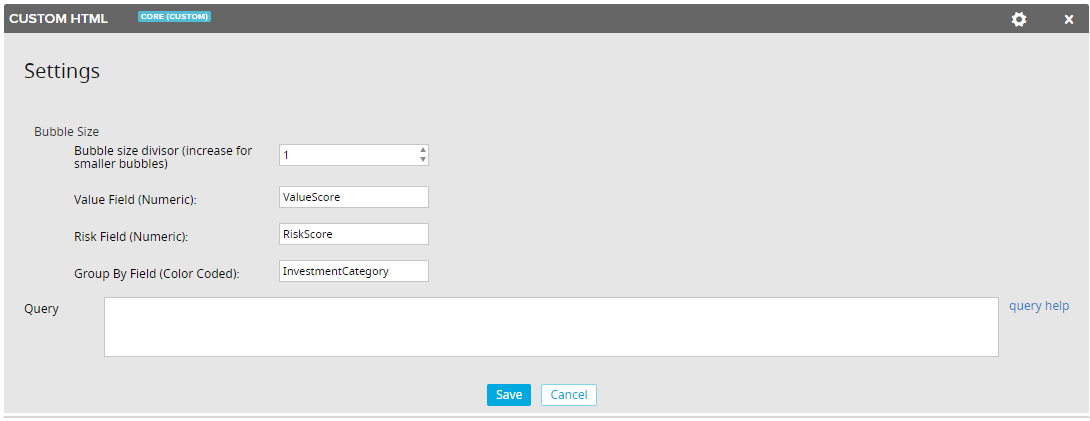
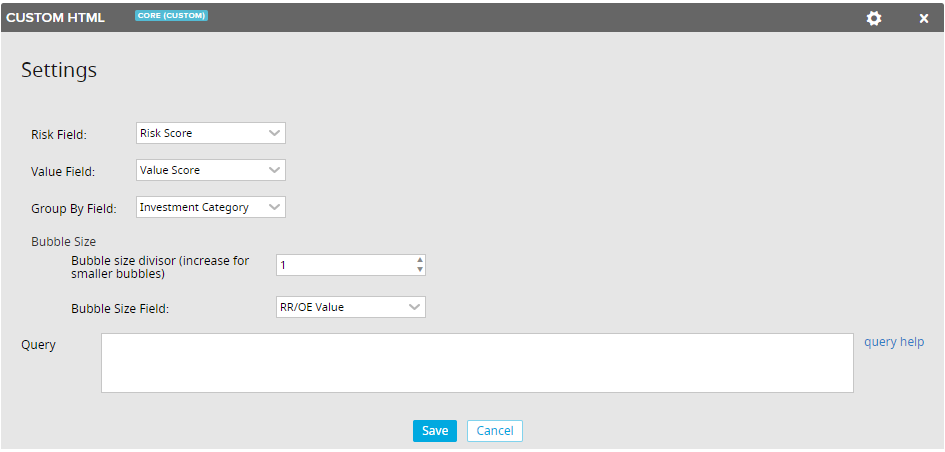
Update Field Settings

diff --git a/deploy/App-external.html b/deploy/App-external.html
@@ -7,7 +7,7 @@
 
     <script type="text/javascript">
         Rally.onReady(function () {
-                Ext.define("PIValueVsRisk",{extend:"Rally.app.App",componentCls:"app",launch:function(){app=this,typeComboBox=this.add({xtype:"rallyportfolioitemtypecombobox",listeners:{select:function(combobox){var piType=typeComboBox.getRecord().get("TypePath");this._getPIChartData(piType)},scope:this}})},_getPIChartData:function(piType){this._myStore&&this._myStore.destroy(),this.myStore=Ext.create("Rally.data.wsapi.Store",{model:piType,autoLoad:!0,fetch:["FormattedID","Name","PreliminaryEstimate","PreliminaryEstimateValue",app.getSetting("groupByField"),riskField=app.getSetting("riskField"),riskField=app.getSetting("valueField")],sorters:[{property:"InvestmentCategory",direction:"ASC"}],filters:app.getQueryFilter(),listeners:{load:this._onDataLoaded,scope:this}})},_onDataLoaded:function(store,data){var bubbleDiv=app.getSetting("PIBubbleDiv"),groupField=app.getSetting("groupByField"),riskField=app.getSetting("riskField"),valueField=app.getSetting("valueField"),series=[],ccount=0,currentSeries={name:null},records=_.map(data,function(record){record.get(groupField)!==currentSeries.name&&(currentSeries={name:record.get(groupField),data:[],color:app._getColor(ccount++)},series.push(currentSeries));var bubbleSize=5,sizeText="Unknown";record.get("PreliminaryEstimate")&&(bubbleSize=100*record.get("PreliminaryEstimateValue")/bubbleDiv,sizeText=record.get("PreliminaryEstimate").Name),currentSeries.data.push({name:record.get("FormattedID")+": "+record.get("Name"),x:record.get(valueField),y:record.get(riskField),z:bubbleSize,size:sizeText})});this._drawChart({series:series})},_drawChart:function(data){this._myBoard&&this._myBoard.destroy(),this._myBoard=this.add({xtype:"rallychart",loadMask:!1,chartData:data,chartConfig:this._getChartConfig()})},_getColor:function(index){var COLORS=["rgba(204,  0,  0, .6)","rgba(204,204,  0, .6)","rgba(  0,204,  0, .6)","rgba(  0,102,204, .6)","rgba(102,  0,204, .6)","rgba( 96, 96, 96, .6)","rgba(204,102,  0, .6)","rgba(  0,  0,204, .6)"];return COLORS[index]},_getChartConfig:function(){return{chart:{type:"bubble",plotBorderWidth:1,zoomType:"xy"},title:{text:"Value vs. Risk"},xAxis:{min:0,title:{text:app.getSetting("valueField")}},yAxis:{min:0,title:{text:app.getSetting("riskField")}},tooltip:{formatter:function(){return"<b>"+this.point.name+"</b><br/>Value: "+this.x+", Risk: "+this.y+", Size: "+this.point.size}},plotOptions:{scatter:{marker:{radius:10,symbol:"circle",states:{hover:{enabled:!1}}},states:{hover:{marker:{enabled:!0}}}}}}},getSettingsFields:function(){var values=[{xtype:"label",forId:"myFieldId1",text:"Bubble Size",margin:"0 0 0 10"},{name:"PIBubbleDiv",xtype:"rallynumberfield",margin:"0 0 15 50",label:"Bubble size divisor (increase for smaller bubbles)",labelWidth:200},{name:"valueField",xtype:"rallytextfield",margin:"0 0 15 50",label:"Value Field (Numeric):",labelWidth:200},{name:"riskField",xtype:"rallytextfield",margin:"0 0 15 50",label:"Risk Field (Numeric):",labelWidth:200},{name:"groupByField",xtype:"rallytextfield",margin:"0 0 15 50",label:"Group By Field (Color Coded):",labelWidth:200},{type:"query"}];return values},config:{defaultSettings:{PIBubbleDiv:1,groupByField:"InvestmentCategory",valueField:"ValueScore",riskField:"RiskScore"}},getQueryFilter:function(){var queries=[];return app.getSetting("query")&&queries.push(Rally.data.QueryFilter.fromQueryString(app.getSetting("query"))),queries}});
+                Ext.define("PIValueVsRisk",{extend:"Rally.app.App",componentCls:"app",launch:function(){app=this,typeComboBox=this.add({xtype:"rallyportfolioitemtypecombobox",listeners:{select:function(combobox){var piType=typeComboBox.getRecord().get("TypePath");this._getPIChartData(piType)},scope:this}})},_getPIChartData:function(piType){this._myStore&&this._myStore.destroy(),this.myStore=Ext.create("Rally.data.wsapi.Store",{model:piType,autoLoad:!0,fetch:["FormattedID","Name","PreliminaryEstimate","PreliminaryEstimateValue",app.getSetting("groupByField"),riskField=app.getSetting("riskField"),riskField=app.getSetting("valueField"),app.getSetting("bubbleSizeField")],sorters:[{property:"InvestmentCategory",direction:"ASC"}],filters:app.getQueryFilter(),listeners:{load:this._onDataLoaded,scope:this}})},_onDataLoaded:function(store,data){var bubbleDiv=app.getSetting("PIBubbleDiv"),groupField=app.getSetting("groupByField"),riskField=app.getSetting("riskField"),valueField=app.getSetting("valueField"),series=[],ccount=0,currentSeries={name:null},records=_.map(data,function(record){var rec=void 0===record.get(groupField)._type?record.get(groupField):record.get(groupField)._refObjectName;rec!==currentSeries.name&&(currentSeries={name:rec,data:[],color:app._getColor(ccount++)},series.push(currentSeries));var bubbleSize=5,sizeText="Unknown";"PreliminaryEstimate"===app.getSetting("bubbleSizeField")?(bsizeName="PreliminaryEstimate",bsizeValue=record.get("PreliminaryEstimateValue"),record.get(bsizeName)&&(bubbleSize=100*bsizeValue/bubbleDiv,sizeText=record.get(bsizeName).Name)):(bsizeName=app.getSetting("bubbleSizeField"),bsizeValue=record.get(bsizeName),record.get(bsizeName)&&(bubbleSize=100*bsizeValue/bubbleDiv,sizeText=record.get(bsizeName))),currentSeries.data.push({name:record.get("FormattedID")+": "+record.get("Name"),x:record.get(valueField),y:record.get(riskField),z:bubbleSize,size:sizeText})});this._drawChart({series:series})},_drawChart:function(data){this._myBoard&&this._myBoard.destroy(),this._myBoard=this.add({xtype:"rallychart",loadMask:!1,chartData:data,chartConfig:this._getChartConfig()})},_getColor:function(index){var COLORS=["rgba(204,  0,  0, .6)","rgba(204,204,  0, .6)","rgba(  0,204,  0, .6)","rgba(  0,102,204, .6)","rgba(102,  0,204, .6)","rgba( 96, 96, 96, .6)","rgba(204,102,  0, .6)","rgba(  0,  0,204, .6)"];return COLORS[index]},_getChartConfig:function(){return{chart:{type:"bubble",plotBorderWidth:1,zoomType:"xy"},title:{text:"Value vs. Risk"},xAxis:{min:0,title:{text:app.getSetting("valueField")}},yAxis:{min:0,title:{text:app.getSetting("riskField")}},tooltip:{formatter:function(){return"<b>"+this.point.name+"</b><br/>Value: "+this.x+", Risk: "+this.y+", Size: "+this.point.size}},plotOptions:{scatter:{marker:{radius:10,symbol:"circle",states:{hover:{enabled:!1}}},states:{hover:{marker:{enabled:!0}}}}}}},getSettingsFields:function(){var values=[{xtype:"rallyfieldcombobox",name:"riskField",fieldLabel:"Risk Field:",model:"PortfolioItem",boxLabelAlign:"after",margin:"0 0 15 10",labelStyle:"width:100px;"},{xtype:"rallyfieldcombobox",name:"valueField",fieldLabel:"Value Field:",model:"PortfolioItem",boxLabelAlign:"after",margin:"0 0 15 10",labelStyle:"width:100px;"},{xtype:"rallyfieldcombobox",name:"groupByField",fieldLabel:"Group By Field:",model:"PortfolioItem",boxLabelAlign:"after",margin:"0 0 15 10",labelStyle:"width:100px;"},{xtype:"label",forId:"myFieldId1",text:"Bubble Size",margin:"0 0 0 10"},{name:"PIBubbleDiv",xtype:"rallynumberfield",margin:"0 0 15 50",label:"Bubble size divisor (increase for smaller bubbles)",labelWidth:200},{xtype:"rallyfieldcombobox",name:"bubbleSizeField",fieldLabel:"Bubble Size Field:",model:"PortfolioItem",boxLabelAlign:"after",margin:"0 0 15 50",labelStyle:"width:200px;"},{type:"query"}];return values},config:{defaultSettings:{PIBubbleDiv:1,groupByField:"InvestmentCategory",valueField:"ValueScore",riskField:"RiskScore",bubbleSizeField:"PreliminaryEstimate"}},getQueryFilter:function(){var queries=[];return app.getSetting("query")&&queries.push(Rally.data.QueryFilter.fromQueryString(app.getSetting("query"))),queries}});
 
             Rally.launchApp('PIValueVsRisk', {
                 name:"PIValueVsRisk",

diff --git a/deploy/App.html b/deploy/App.html
@@ -7,7 +7,7 @@
 
     <script type="text/javascript">
         Rally.onReady(function () {
-                Ext.define("PIValueVsRisk",{extend:"Rally.app.App",componentCls:"app",launch:function(){app=this,typeComboBox=this.add({xtype:"rallyportfolioitemtypecombobox",listeners:{select:function(combobox){var piType=typeComboBox.getRecord().get("TypePath");this._getPIChartData(piType)},scope:this}})},_getPIChartData:function(piType){this._myStore&&this._myStore.destroy(),this.myStore=Ext.create("Rally.data.wsapi.Store",{model:piType,autoLoad:!0,fetch:["FormattedID","Name","PreliminaryEstimate","PreliminaryEstimateValue",app.getSetting("groupByField"),riskField=app.getSetting("riskField"),riskField=app.getSetting("valueField")],sorters:[{property:"InvestmentCategory",direction:"ASC"}],filters:app.getQueryFilter(),listeners:{load:this._onDataLoaded,scope:this}})},_onDataLoaded:function(store,data){var bubbleDiv=app.getSetting("PIBubbleDiv"),groupField=app.getSetting("groupByField"),riskField=app.getSetting("riskField"),valueField=app.getSetting("valueField"),series=[],ccount=0,currentSeries={name:null},records=_.map(data,function(record){record.get(groupField)!==currentSeries.name&&(currentSeries={name:record.get(groupField),data:[],color:app._getColor(ccount++)},series.push(currentSeries));var bubbleSize=5,sizeText="Unknown";record.get("PreliminaryEstimate")&&(bubbleSize=100*record.get("PreliminaryEstimateValue")/bubbleDiv,sizeText=record.get("PreliminaryEstimate").Name),currentSeries.data.push({name:record.get("FormattedID")+": "+record.get("Name"),x:record.get(valueField),y:record.get(riskField),z:bubbleSize,size:sizeText})});this._drawChart({series:series})},_drawChart:function(data){this._myBoard&&this._myBoard.destroy(),this._myBoard=this.add({xtype:"rallychart",loadMask:!1,chartData:data,chartConfig:this._getChartConfig()})},_getColor:function(index){var COLORS=["rgba(204,  0,  0, .6)","rgba(204,204,  0, .6)","rgba(  0,204,  0, .6)","rgba(  0,102,204, .6)","rgba(102,  0,204, .6)","rgba( 96, 96, 96, .6)","rgba(204,102,  0, .6)","rgba(  0,  0,204, .6)"];return COLORS[index]},_getChartConfig:function(){return{chart:{type:"bubble",plotBorderWidth:1,zoomType:"xy"},title:{text:"Value vs. Risk"},xAxis:{min:0,title:{text:app.getSetting("valueField")}},yAxis:{min:0,title:{text:app.getSetting("riskField")}},tooltip:{formatter:function(){return"<b>"+this.point.name+"</b><br/>Value: "+this.x+", Risk: "+this.y+", Size: "+this.point.size}},plotOptions:{scatter:{marker:{radius:10,symbol:"circle",states:{hover:{enabled:!1}}},states:{hover:{marker:{enabled:!0}}}}}}},getSettingsFields:function(){var values=[{xtype:"label",forId:"myFieldId1",text:"Bubble Size",margin:"0 0 0 10"},{name:"PIBubbleDiv",xtype:"rallynumberfield",margin:"0 0 15 50",label:"Bubble size divisor (increase for smaller bubbles)",labelWidth:200},{name:"valueField",xtype:"rallytextfield",margin:"0 0 15 50",label:"Value Field (Numeric):",labelWidth:200},{name:"riskField",xtype:"rallytextfield",margin:"0 0 15 50",label:"Risk Field (Numeric):",labelWidth:200},{name:"groupByField",xtype:"rallytextfield",margin:"0 0 15 50",label:"Group By Field (Color Coded):",labelWidth:200},{type:"query"}];return values},config:{defaultSettings:{PIBubbleDiv:1,groupByField:"InvestmentCategory",valueField:"ValueScore",riskField:"RiskScore"}},getQueryFilter:function(){var queries=[];return app.getSetting("query")&&queries.push(Rally.data.QueryFilter.fromQueryString(app.getSetting("query"))),queries}});
+                Ext.define("PIValueVsRisk",{extend:"Rally.app.App",componentCls:"app",launch:function(){app=this,typeComboBox=this.add({xtype:"rallyportfolioitemtypecombobox",listeners:{select:function(combobox){var piType=typeComboBox.getRecord().get("TypePath");this._getPIChartData(piType)},scope:this}})},_getPIChartData:function(piType){this._myStore&&this._myStore.destroy(),this.myStore=Ext.create("Rally.data.wsapi.Store",{model:piType,autoLoad:!0,fetch:["FormattedID","Name","PreliminaryEstimate","PreliminaryEstimateValue",app.getSetting("groupByField"),riskField=app.getSetting("riskField"),riskField=app.getSetting("valueField"),app.getSetting("bubbleSizeField")],sorters:[{property:"InvestmentCategory",direction:"ASC"}],filters:app.getQueryFilter(),listeners:{load:this._onDataLoaded,scope:this}})},_onDataLoaded:function(store,data){var bubbleDiv=app.getSetting("PIBubbleDiv"),groupField=app.getSetting("groupByField"),riskField=app.getSetting("riskField"),valueField=app.getSetting("valueField"),series=[],ccount=0,currentSeries={name:null},records=_.map(data,function(record){var rec=void 0===record.get(groupField)._type?record.get(groupField):record.get(groupField)._refObjectName;rec!==currentSeries.name&&(currentSeries={name:rec,data:[],color:app._getColor(ccount++)},series.push(currentSeries));var bubbleSize=5,sizeText="Unknown";"PreliminaryEstimate"===app.getSetting("bubbleSizeField")?(bsizeName="PreliminaryEstimate",bsizeValue=record.get("PreliminaryEstimateValue"),record.get(bsizeName)&&(bubbleSize=100*bsizeValue/bubbleDiv,sizeText=record.get(bsizeName).Name)):(bsizeName=app.getSetting("bubbleSizeField"),bsizeValue=record.get(bsizeName),record.get(bsizeName)&&(bubbleSize=100*bsizeValue/bubbleDiv,sizeText=record.get(bsizeName))),currentSeries.data.push({name:record.get("FormattedID")+": "+record.get("Name"),x:record.get(valueField),y:record.get(riskField),z:bubbleSize,size:sizeText})});this._drawChart({series:series})},_drawChart:function(data){this._myBoard&&this._myBoard.destroy(),this._myBoard=this.add({xtype:"rallychart",loadMask:!1,chartData:data,chartConfig:this._getChartConfig()})},_getColor:function(index){var COLORS=["rgba(204,  0,  0, .6)","rgba(204,204,  0, .6)","rgba(  0,204,  0, .6)","rgba(  0,102,204, .6)","rgba(102,  0,204, .6)","rgba( 96, 96, 96, .6)","rgba(204,102,  0, .6)","rgba(  0,  0,204, .6)"];return COLORS[index]},_getChartConfig:function(){return{chart:{type:"bubble",plotBorderWidth:1,zoomType:"xy"},title:{text:"Value vs. Risk"},xAxis:{min:0,title:{text:app.getSetting("valueField")}},yAxis:{min:0,title:{text:app.getSetting("riskField")}},tooltip:{formatter:function(){return"<b>"+this.point.name+"</b><br/>Value: "+this.x+", Risk: "+this.y+", Size: "+this.point.size}},plotOptions:{scatter:{marker:{radius:10,symbol:"circle",states:{hover:{enabled:!1}}},states:{hover:{marker:{enabled:!0}}}}}}},getSettingsFields:function(){var values=[{xtype:"rallyfieldcombobox",name:"riskField",fieldLabel:"Risk Field:",model:"PortfolioItem",boxLabelAlign:"after",margin:"0 0 15 10",labelStyle:"width:100px;"},{xtype:"rallyfieldcombobox",name:"valueField",fieldLabel:"Value Field:",model:"PortfolioItem",boxLabelAlign:"after",margin:"0 0 15 10",labelStyle:"width:100px;"},{xtype:"rallyfieldcombobox",name:"groupByField",fieldLabel:"Group By Field:",model:"PortfolioItem",boxLabelAlign:"after",margin:"0 0 15 10",labelStyle:"width:100px;"},{xtype:"label",forId:"myFieldId1",text:"Bubble Size",margin:"0 0 0 10"},{name:"PIBubbleDiv",xtype:"rallynumberfield",margin:"0 0 15 50",label:"Bubble size divisor (increase for smaller bubbles)",labelWidth:200},{xtype:"rallyfieldcombobox",name:"bubbleSizeField",fieldLabel:"Bubble Size Field:",model:"PortfolioItem",boxLabelAlign:"after",margin:"0 0 15 50",labelStyle:"width:200px;"},{type:"query"}];return values},config:{defaultSettings:{PIBubbleDiv:1,groupByField:"InvestmentCategory",valueField:"ValueScore",riskField:"RiskScore",bubbleSizeField:"PreliminaryEstimate"}},getQueryFilter:function(){var queries=[];return app.getSetting("query")&&queries.push(Rally.data.QueryFilter.fromQueryString(app.getSetting("query"))),queries}});
 
             Rally.launchApp('PIValueVsRisk', {
                 name:"PIValueVsRisk",

diff --git a/App.js b/App.js
@@ -20,7 +20,7 @@ Ext.define('PIValueVsRisk', {
 		this.myStore = Ext.create('Rally.data.wsapi.Store', {
 			model: piType,
 			autoLoad: true,
-			fetch: ['FormattedID', 'Name', 'PreliminaryEstimate', 'PreliminaryEstimateValue', app.getSetting('groupByField'), riskField = app.getSetting('riskField'), riskField = app.getSetting('valueField') ],
+			fetch: ['FormattedID', 'Name', 'PreliminaryEstimate', 'PreliminaryEstimateValue', app.getSetting('groupByField'), riskField = app.getSetting('riskField'), riskField = app.getSetting('valueField'), app.getSetting('bubbleSizeField') ],
 			sorters: [{
 				property: 'InvestmentCategory',
 				direction: 'ASC'
@@ -44,10 +44,10 @@ Ext.define('PIValueVsRisk', {
 		};
 		var records = _.map(data, function (record) {
 			// console.log(record);
-
-			if (record.get(groupField) !== currentSeries.name) {
+			var rec = (record.get(groupField)._type === undefined )  ? record.get(groupField) : record.get(groupField)._refObjectName ;
+			if (rec !== currentSeries.name) {
 				currentSeries = {
-					name: record.get(groupField),
+					name: rec,
 					data: [],
 					color: app._getColor(ccount++)
 				};
@@ -55,9 +55,22 @@ Ext.define('PIValueVsRisk', {
 			}
 			var bubbleSize = 5;
 			var sizeText = "Unknown";
-			if (record.get('PreliminaryEstimate')) {
-				bubbleSize = (100 * record.get('PreliminaryEstimateValue')) / bubbleDiv;
-				sizeText = record.get('PreliminaryEstimate').Name;
+			if (app.getSetting('bubbleSizeField') === 'PreliminaryEstimate') {
+				bsizeName = 'PreliminaryEstimate';
+				bsizeValue = record.get('PreliminaryEstimateValue');
+				if (record.get(bsizeName)) {
+					bubbleSize = (100 * bsizeValue) / bubbleDiv;
+					sizeText = record.get(bsizeName).Name;
+				}
+			} else {
+// console.log(record);
+				bsizeName = app.getSetting('bubbleSizeField');
+				bsizeValue = record.get(bsizeName);
+				if (record.get(bsizeName)) {
+// console.log(bsizeName, bsizeValue);
+					bubbleSize = (100 * bsizeValue) / bubbleDiv;
+					sizeText = record.get(bsizeName);
+				}
 			}
 //			console.log(record);
 			currentSeries.data.push({
@@ -68,12 +81,12 @@ Ext.define('PIValueVsRisk', {
 				size: sizeText,
 			});
 		});
-		// console.log(series);
+// console.log(series);
 		this._drawChart({series: series});
 	},
 	_drawChart: function (data) {
         if ( this._myBoard ) { this._myBoard.destroy(); }
-		//                    console.log(data);
+//  console.log(data);
 		this._myBoard = this.add({
 			xtype: 'rallychart',
 			loadMask: false,
@@ -149,39 +162,54 @@ Ext.define('PIValueVsRisk', {
     },
     getSettingsFields: function() {
         var values = [
+			{   // Card Field Picker
+				xtype: 'rallyfieldcombobox',
+				name: 'riskField',
+				fieldLabel: 'Risk Field:',
+				model: 'PortfolioItem',
+				boxLabelAlign: 'after',
+				margin: '0 0 15 10',
+				labelStyle: "width:100px;"
+			},
+			{   // Card Field Picker
+				xtype: 'rallyfieldcombobox',
+				name: 'valueField',
+				fieldLabel: 'Value Field:',
+				model: 'PortfolioItem',
+				boxLabelAlign: 'after',
+				margin: '0 0 15 10',
+				labelStyle: "width:100px;"
+			},
+			{   // Card Field Picker
+				xtype: 'rallyfieldcombobox',
+				name: 'groupByField',
+				fieldLabel: 'Group By Field:',
+				model: 'PortfolioItem',
+				boxLabelAlign: 'after',
+				margin: '0 0 15 10',
+				labelStyle: "width:100px;"
+			},
 			{
 				xtype: 'label',
 				forId: 'myFieldId1',
 				text: 'Bubble Size',
 				margin: '0 0 0 10'
 			},
-           {
+        	{
                 name: 'PIBubbleDiv',
                 xtype: 'rallynumberfield',
                 margin: '0 0 15 50',
                 label : "Bubble size divisor (increase for smaller bubbles)",
                 labelWidth: 200
 			},
-			{
-                name: 'valueField',
-                xtype: 'rallytextfield',
-                margin: '0 0 15 50',
-                label : "Value Field (Numeric):",
-                labelWidth: 200
-			},
-			{
-                name: 'riskField',
-                xtype: 'rallytextfield',
-                margin: '0 0 15 50',
-                label : "Risk Field (Numeric):",
-                labelWidth: 200
-			},
-			{
-                name: 'groupByField',
-                xtype: 'rallytextfield',
-                margin: '0 0 15 50',
-                label : "Group By Field (Color Coded):",
-                labelWidth: 200
+			{   // Card Field Picker
+				xtype: 'rallyfieldcombobox',
+				name: 'bubbleSizeField',
+				fieldLabel: 'Bubble Size Field:',
+				model: 'PortfolioItem',
+				boxLabelAlign: 'after',
+				margin: '0 0 15 50',
+				labelStyle: "width:200px;"
 			},
 			{ type: 'query' }
         ];
@@ -192,7 +220,8 @@ Ext.define('PIValueVsRisk', {
 			PIBubbleDiv : 1,
 			groupByField: 'InvestmentCategory',
 			valueField: 'ValueScore',
-			riskField: 'RiskScore'
+			riskField: 'RiskScore',
+			bubbleSizeField: 'PreliminaryEstimate'
 
         }
 	},

diff --git a/deploy/App-uncompressed.html b/deploy/App-uncompressed.html
@@ -29,7 +29,7 @@
 		this.myStore = Ext.create('Rally.data.wsapi.Store', {
 			model: piType,
 			autoLoad: true,
-			fetch: ['FormattedID', 'Name', 'PreliminaryEstimate', 'PreliminaryEstimateValue', app.getSetting('groupByField'), riskField = app.getSetting('riskField'), riskField = app.getSetting('valueField') ],
+			fetch: ['FormattedID', 'Name', 'PreliminaryEstimate', 'PreliminaryEstimateValue', app.getSetting('groupByField'), riskField = app.getSetting('riskField'), riskField = app.getSetting('valueField'), app.getSetting('bubbleSizeField') ],
 			sorters: [{
 				property: 'InvestmentCategory',
 				direction: 'ASC'
@@ -53,10 +53,10 @@
 		};
 		var records = _.map(data, function (record) {
 			// console.log(record);
-
-			if (record.get(groupField) !== currentSeries.name) {
+			var rec = (record.get(groupField)._type === undefined )  ? record.get(groupField) : record.get(groupField)._refObjectName ;
+			if (rec !== currentSeries.name) {
 				currentSeries = {
-					name: record.get(groupField),
+					name: rec,
 					data: [],
 					color: app._getColor(ccount++)
 				};
@@ -64,9 +64,22 @@
 			}
 			var bubbleSize = 5;
 			var sizeText = "Unknown";
-			if (record.get('PreliminaryEstimate')) {
-				bubbleSize = (100 * record.get('PreliminaryEstimateValue')) / bubbleDiv;
-				sizeText = record.get('PreliminaryEstimate').Name;
+			if (app.getSetting('bubbleSizeField') === 'PreliminaryEstimate') {
+				bsizeName = 'PreliminaryEstimate';
+				bsizeValue = record.get('PreliminaryEstimateValue');
+				if (record.get(bsizeName)) {
+					bubbleSize = (100 * bsizeValue) / bubbleDiv;
+					sizeText = record.get(bsizeName).Name;
+				}
+			} else {
+// console.log(record);
+				bsizeName = app.getSetting('bubbleSizeField');
+				bsizeValue = record.get(bsizeName);
+				if (record.get(bsizeName)) {
+// console.log(bsizeName, bsizeValue);
+					bubbleSize = (100 * bsizeValue) / bubbleDiv;
+					sizeText = record.get(bsizeName);
+				}
 			}
 //			console.log(record);
 			currentSeries.data.push({
@@ -77,12 +90,12 @@
 				size: sizeText,
 			});
 		});
-		// console.log(series);
+// console.log(series);
 		this._drawChart({series: series});
 	},
 	_drawChart: function (data) {
         if ( this._myBoard ) { this._myBoard.destroy(); }
-		//                    console.log(data);
+//  console.log(data);
 		this._myBoard = this.add({
 			xtype: 'rallychart',
 			loadMask: false,
@@ -158,39 +171,54 @@
     },
     getSettingsFields: function() {
         var values = [
+			{   // Card Field Picker
+				xtype: 'rallyfieldcombobox',
+				name: 'riskField',
+				fieldLabel: 'Risk Field:',
+				model: 'PortfolioItem',
+				boxLabelAlign: 'after',
+				margin: '0 0 15 10',
+				labelStyle: "width:100px;"
+			},
+			{   // Card Field Picker
+				xtype: 'rallyfieldcombobox',
+				name: 'valueField',
+				fieldLabel: 'Value Field:',
+				model: 'PortfolioItem',
+				boxLabelAlign: 'after',
+				margin: '0 0 15 10',
+				labelStyle: "width:100px;"
+			},
+			{   // Card Field Picker
+				xtype: 'rallyfieldcombobox',
+				name: 'groupByField',
+				fieldLabel: 'Group By Field:',
+				model: 'PortfolioItem',
+				boxLabelAlign: 'after',
+				margin: '0 0 15 10',
+				labelStyle: "width:100px;"
+			},
 			{
 				xtype: 'label',
 				forId: 'myFieldId1',
 				text: 'Bubble Size',
 				margin: '0 0 0 10'
 			},
-           {
+        	{
                 name: 'PIBubbleDiv',
                 xtype: 'rallynumberfield',
                 margin: '0 0 15 50',
                 label : "Bubble size divisor (increase for smaller bubbles)",
                 labelWidth: 200
 			},
-			{
-                name: 'valueField',
-                xtype: 'rallytextfield',
-                margin: '0 0 15 50',
-                label : "Value Field (Numeric):",
-                labelWidth: 200
-			},
-			{
-                name: 'riskField',
-                xtype: 'rallytextfield',
-                margin: '0 0 15 50',
-                label : "Risk Field (Numeric):",
-                labelWidth: 200
-			},
-			{
-                name: 'groupByField',
-                xtype: 'rallytextfield',
-                margin: '0 0 15 50',
-                label : "Group By Field (Color Coded):",
-                labelWidth: 200
+			{   // Card Field Picker
+				xtype: 'rallyfieldcombobox',
+				name: 'bubbleSizeField',
+				fieldLabel: 'Bubble Size Field:',
+				model: 'PortfolioItem',
+				boxLabelAlign: 'after',
+				margin: '0 0 15 50',
+				labelStyle: "width:200px;"
 			},
 			{ type: 'query' }
         ];
@@ -201,7 +229,8 @@
 			PIBubbleDiv : 1,
 			groupByField: 'InvestmentCategory',
 			valueField: 'ValueScore',
-			riskField: 'RiskScore'
+			riskField: 'RiskScore',
+			bubbleSizeField: 'PreliminaryEstimate'
 
         }
 	},

diff --git a/README.md b/README.md
@@ -4,12 +4,14 @@ PIValueVsRisk
 ![Alt text](https://raw.github.com/RallyRonnie/PIValueVsRisk/master/Screenshot.png)
 
 ## Overview
-This is a Rally SDK 2 app that measures risk vs value on certain any Portfolio Item type. You can click on each item in the legend to toggle if the group (series) will show or not. When you hover over any graph item, you can see the details. 
+This is a Rally SDK 2 app that measures risk vs value on any Portfolio Item type. You can click on each item in the legend to toggle if the group (series) will show or not. When you hover over any graph item, you can see the details. 
 
 ## How to Use
 If you want to start using the app immediately, create an Custom HTML app on your Rally dashboard. Then copy deploy/App.html or deploy/App-uncompressed.html from the deploy folder into the HTML text area. That's it, it should be ready to use.
 
-App Settings are available under the App gear icon -> Edit App Settings. A screeshot is below. The Bubble Divisor devided the bubble size which is based on (100 * PreliminaryEstimate Value - set in the field properties). Sane values are 1 to 100. NOTE: setting to 0 will cause an error.
+App Settings are available under the App gear icon -> Edit App Settings. A screeshot is below. Select the appropriate fields
+for the Value (x axis), Risk (y axis), and Group By fields (group displayed by color). There are no field TYPE validations, so
+exercise caution in picking the fields. There is some logic in the Group By field to pick not just select-fields (i.e. Investment Category), but other fields like Owner, State, Project, etc... In testing, Multi-Select field and Tags DO NOT work. The Bubble field determines the bubble size. The Bubble Divisor devided the bubble size which is based on (100 * PreliminaryEstimate Value - set in the field properties). Sane values are 1 to 100. NOTE: setting to 0 will cause an error.
 
 ![Alt text](https://raw.github.com/RallyRonnie/PIValueVsRisk/master/Settings.png)
 
